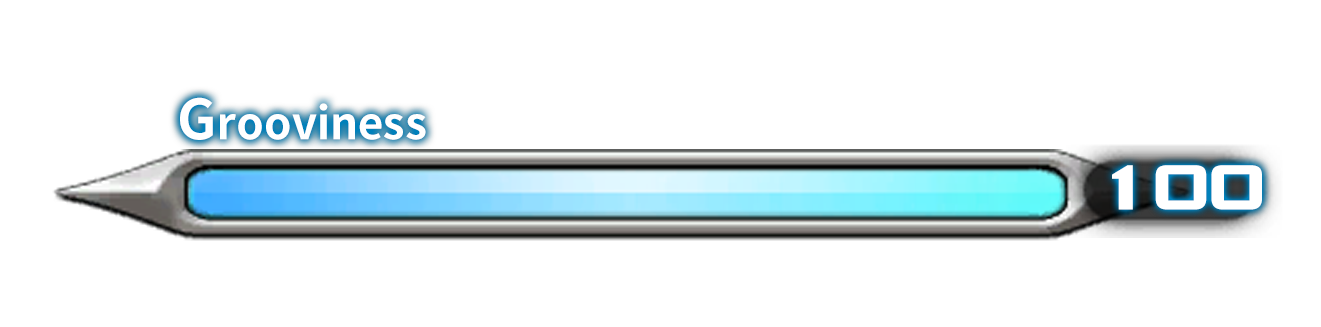
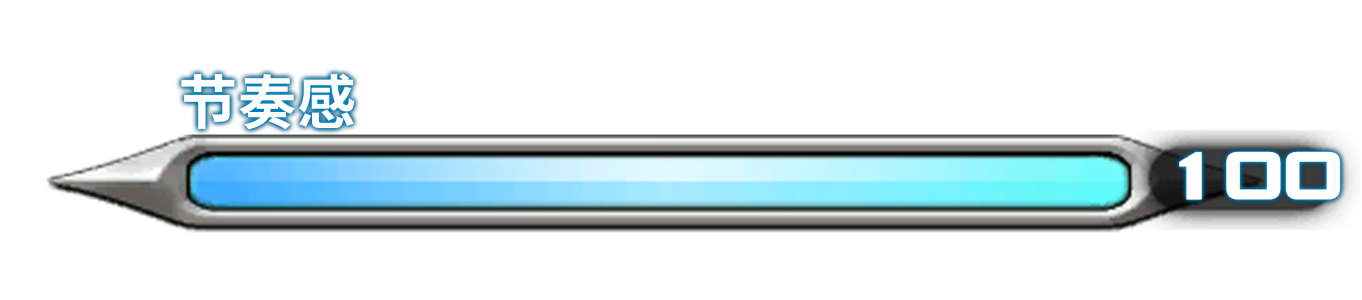
finish M5S

Changed region(s): [[0.031, 0.24, 0.9932, 0.78]]

diff --git a/src/pages/07/m5s/_translations/en.ts b/src/pages/07/m5s/_translations/en.ts
@@ -9,11 +9,14 @@ export const translations = {
   burnBabyBurn: 'Burn Baby Burn',
   playASide: 'Play A-side',
   playBSide: 'Play B-side',
-  burnBabyBurnDesc: 'Consumed by the Disco Infernal and condemned to strike a groovy pose when this effect expires. Failure to stand alone in the spotlight when posing will result in damage taken.',
+  burnBabyBurnDesc:
+    'Consumed by the Disco Infernal and condemned to strike a groovy pose when this effect expires. Failure to stand alone in the spotlight when posing will result in damage taken.',
   inTheSpotLight: 'In the Spotlight',
-  inTheSpotLightDesc: 'Struck a groovy pose to the adulation of all on the dance floor. Cannot stop thinking about it, resulting in increased magic damage taken.',
+  inTheSpotLightDesc:
+    'Struck a groovy pose to the adulation of all on the dance floor. Cannot stop thinking about it, resulting in increased magic damage taken.',
   spotlightless: 'Spotlightless',
-  spotlightlessDesc: 'Publicly failed to strike a groovy pose. Ego injury is resulting in greatly increased magic damage taken.',
+  spotlightlessDesc:
+    'Publicly failed to strike a groovy pose. Ego injury is resulting in greatly increased magic damage taken.',
   shame: 'Shame',
   insideOut: 'InSide Out',
   outSideIn: 'OutSide In',
@@ -21,7 +24,8 @@ export const translations = {
   arcadyNightFever: 'Arcady Night Fever',
   getDown: 'Get Down!',
   wavelength: 'Wavelength α',
-  waveLengthDesc: 'A sound bomb will detonate when this effect expires. Its damage can be reduced by sound of a different wavelength. However, mixing two sounds of the same wavelength, or more than two sounds total, will result in cacophonous explosion.',
+  waveLengthDesc:
+    'A sound bomb will detonate when this effect expires. Its damage can be reduced by sound of a different wavelength. However, mixing two sounds of the same wavelength, or more than two sounds total, will result in cacophonous explosion.',
   freakOut: 'Freak Out',
   majorFreakOut: 'Major Freak Out',
   minorFreakOut: 'Minor Freak Out',
@@ -38,7 +42,8 @@ export const translations = {
   arcadyNightEncore: 'Arcady Night Encore',
   letsDanceRemix: 'Let\'s Dance! Remix',
   perfectGroove: 'Perfect Groove',
-  perfectGrooveDesc: 'An impeccable Arcady Night Fever performance is inspiring excessive confidence. Damage dealt is increased.',
+  perfectGrooveDesc:
+    'An impeccable Arcady Night Fever performance is inspiring excessive confidence. Damage dealt is increased.',
   doTheHustle: 'Do the Hustle',
   frogtourageFinale: 'Frogtourage Finale',
   HiNRGFever: 'Hi-NRG Fever',

diff --git a/src/pages/07/m5s/_translations/cn.ts b/src/pages/07/m5s/_translations/cn.ts
@@ -21,11 +21,12 @@ export const translations = {
   arcadyNightFever: '登天夜狂热',
   getDown: '尽情舞蹈！',
   wavelength: '音频炸弹',
-  waveLengthDesc: '被设置了音频炸弹，效果时间结束时会发生爆炸。爆炸时与另一种音频炸弹相撞可以降低爆炸威力，相同或3个以上的音频炸弹接触时会引发大爆炸',
+  waveLengthDesc:
+    '被设置了音频炸弹，效果时间结束时会发生爆炸。爆炸时与另一种音频炸弹相撞可以降低爆炸威力，相同或3个以上的音频炸弹接触时会引发大爆炸',
   freakOut: '音频爆炸',
   majorFreakOut: '嘹音爆炸',
   minorFreakOut: '静音爆炸',
-  grooviness: 'Grooviness',
+  grooviness: '节奏感',
   letsDance: '放纵劲舞！',
   letsPose: '在这停顿！',
   rideTheWaves: '舞浪全开',

diff --git a/src/pages/07/m5s/_translations/index.ts b/src/pages/07/m5s/_translations/index.ts
@@ -1,1 +1,1 @@
-export * from './en'
+export * from './cn'
